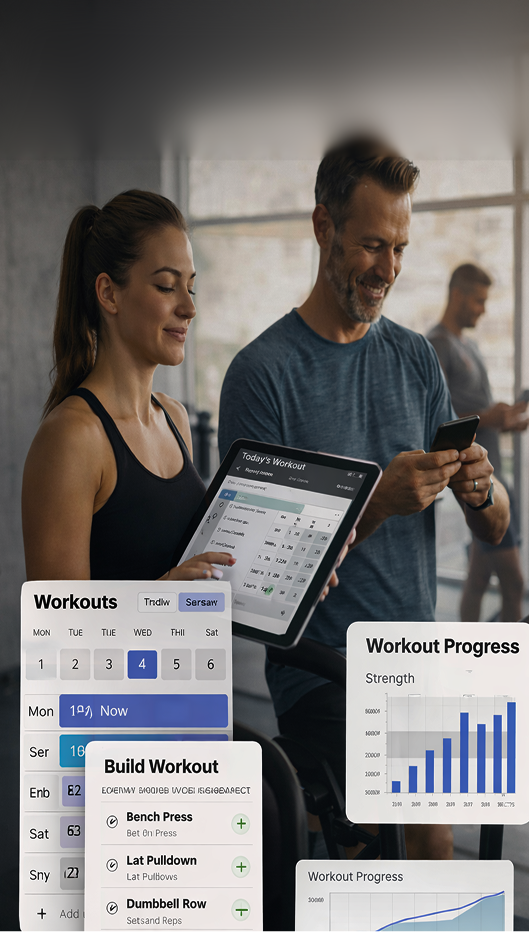
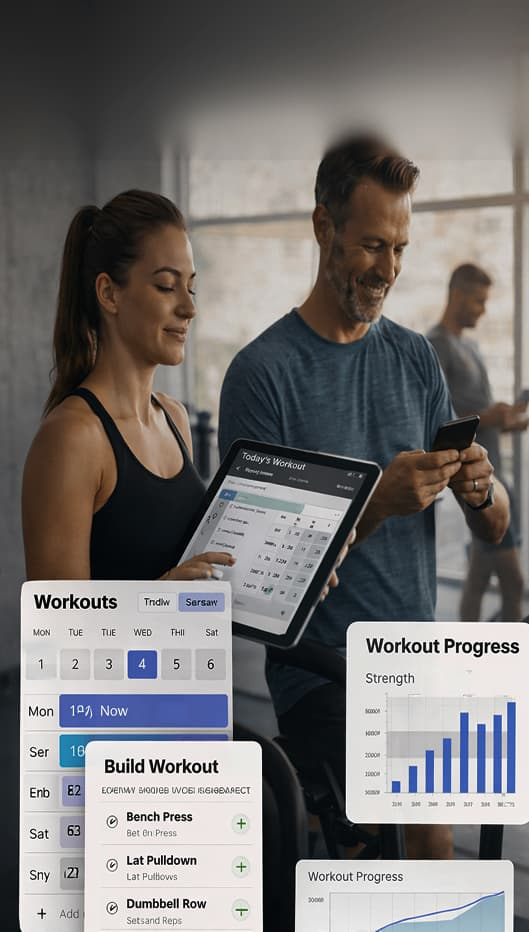
add serve file to run locally and compressed images and set fetchpriotiy high

diff --git a/index.html b/index.html
@@ -4,10 +4,14 @@
     <meta charset="UTF-8">
     <meta name="viewport" content="width=device-width, initial-scale=1.0">
     <title>Gym Planner</title>
+    <meta name="description" content="Plan and track your gym workouts with GymPlanner. Build personalised sessions, schedule your week, and book personal trainers.">
     <!-- CSS Styles File-->
     <link rel="stylesheet" href="css/style.css">
     <!-- CSS Grid File-->
     <link rel="stylesheet" href="css/grid.css">
+    <!-- Preload only the correct hero image per viewport -->
+    <link rel="preload" as="image" href="images/hero_image_mobile.png" media="(max-width: 768px)" fetchpriority="high">
+    <link rel="preload" as="image" href="images/hero_image_container.png" media="(min-width: 769px)" fetchpriority="high">
 </head>
 <body>
     <!-- ------- Header ------- -->
@@ -16,7 +20,7 @@
         <nav class="site-nav" aria-label="Main navigation">
             <!-- Logo -->
             <a href="#home" class="site-nav__logo" aria-label="GymPlanner home">
-                <img class="logo" src="../images/logo.png" alt="GymPlanner logo">
+                <img class="logo" src="images/logo.png" alt="GymPlanner logo" width="95" height="62">
             </a>
             <!-- Nav Links -->
             <ul class="site-nav__links">
@@ -41,10 +45,11 @@
             </ul>
         </nav>
     </header>
-    <!-- ------- Hero ------- -->
     <section class="hero" id="home" aria-label="Hero">
-        <img class="hero__img hero__img--desktop" src="images/hero_image_container.png" alt="GymPlanner workout planning preview">
-        <img class="hero__img hero__img--mobile"  src="images/hero_image_mobile.png"   alt="GymPlanner workout planning preview">
+        <picture>
+            <source srcset="images/hero_image_mobile.png" media="(max-width: 768px)">
+            <img class="hero__img" src="images/hero_image_container.png" alt="GymPlanner workout planning preview" width="1905" height="1092" fetchpriority="high" decoding="async">
+        </picture>
         <div class="hero__content">
             <h1 class="hero__title">Plan smarter. Train harder.</h1>
             <p class="hero__sub">Build and follow personalised workouts,<br>track your progress, and see results.</p>
@@ -55,7 +60,7 @@
     <section class="about" id="about" aria-label="About Us">
         <!-- Row 1: mini bars top left + text right -->
         <div class="about__row about__row--1">
-            <img class="about__deco about__deco--mini-bars" src="images/mini_bars.png" alt="" aria-hidden="true" loading="lazy">
+            <img class="about__deco about__deco--mini-bars" src="images/mini_bars.png" alt="" aria-hidden="true" width="95" height="95" loading="lazy">
             <div class="about__text-block">
                 <p>We created this gym journal to make fitness tracking simple, flexible, and effective.</p>
                 <p>Training isn't always perfect. Plans change, schedules shift, and goals evolve.</p>
@@ -67,7 +72,7 @@
                 That's why our platform is built to let you plan workouts, edit them as needed,
                 and delete what no longer serves you…
             </p>
-            <img class="about__deco about__deco--top-bar" src="images/top_bar.png" alt="" aria-hidden="true" loading="lazy">
+            <img class="about__deco about__deco--top-bar" src="images/top_bar.png" alt="" aria-hidden="true" width="95" height="40" loading="lazy">
         </div>
         <!-- ALL IN ONE PLACE Headline -->
         <div class="about__headline-row">
@@ -116,12 +121,12 @@
     <!-- ------- Footer ------- -->
     <footer class="site-footer" id="footer">
     <!-- SVG -->
-    <img src="images/footer_cross-section_box.svg" alt="" aria-hidden="true" class="footer-cut"/>
+    <img src="images/footer_cross-section_box.svg" alt="" aria-hidden="true" class="footer-cut" loading="lazy"/>
     <!-- Logo -->
     <div class="footer-inner">
         <div class="footer-top">
         <a href="#home" class="site-footer__logo" aria-label="Back to top">
-            <img src="images/logo.png" alt="GymPlanner logo">
+            <img src="images/logo.png" alt="GymPlanner logo" width="95" height="62" loading="lazy">
         </a>
         <!-- Facebook Socials -->
         <div class="footer-social" aria-label="Social media">

diff --git a/js/about.js b/js/about.js
@@ -4,24 +4,33 @@ About Scroll
 ----------------- 
 */
 
-// lazy-load for about section rows
-document.addEventListener('DOMContentLoaded', () => {
-    const aboutEls = document.querySelectorAll(
-        '.about__row, .about__headline-row, .about__closing'
-    );
-    if (!aboutEls.length) return;
-    const observer = new IntersectionObserver(
-        (entries) => {
-            entries.forEach((entry) => {
-                if (entry.isIntersecting) {
-                    entry.target.classList.add('is-visible');
-                    observer.unobserve(entry.target); /* only loads once */
-                }
-            });
-        },
-        {
-            threshold: 0.15, /* trigger when 15% of element is visible */
+/* lazy-load for about section rows */
+(function () {
+    'use strict';
+    if (!document.querySelector('.about')) return;
+    document.addEventListener('DOMContentLoaded', function () {
+        var aboutEls = document.querySelectorAll(
+            '.about__row, .about__headline-row, .about__closing'
+        );
+        if (!aboutEls.length) return;
+        /* fallback for browsers without IntersectionObserver */
+        if (!('IntersectionObserver' in window)) {
+            aboutEls.forEach(function (el) { el.classList.add('is-visible'); });
+            return;
         }
-    );
-    aboutEls.forEach((el) => observer.observe(el));
-});
+        var observer = new IntersectionObserver(
+            function (entries) {
+                entries.forEach(function (entry) {
+                    if (entry.isIntersecting) {
+                        entry.target.classList.add('is-visible');
+                        observer.unobserve(entry.target); /* only loads once */
+                    }
+                });
+            },
+            {
+                threshold: 0.15, /* trigger when 15% of element is visible */
+            }
+        );
+        aboutEls.forEach(function (el) { observer.observe(el); });
+    });
+})();

diff --git a/css/style.css b/css/style.css
@@ -90,8 +90,6 @@ Hero (ai generated)
 */
 .hero { position: relative; width: 100%; height: calc(100vh - var(--nav-h)); margin-top: var(--nav-h); overflow: hidden; }
 .hero__img { display: block; width: 100%; height: 100%; object-fit: cover; object-position: center; }
-.hero__img--desktop { display: block; }
-.hero__img--mobile  { display: none; }
 .hero__content { position: absolute; inset: 0; display: flex; flex-direction: column; align-items: center; padding-top: 6%; text-align: center; gap: 0.75rem; }
 .hero__title { font-family: var(--font-body); font-size: clamp(1.6rem,3.5vw,2.8rem); font-weight: 800; color: #fff; line-height: 1.15; text-shadow: 0 2px 12px rgba(0,0,0,0.35); }
 .hero__sub { font-size: clamp(0.85rem,1.5vw,1.05rem); font-weight: 400; color: rgba(255,255,255,0.82); line-height: 1.55; text-shadow: 0 1px 8px rgba(0,0,0,0.3); }
@@ -171,8 +169,7 @@ Responsive
   .site-nav__links { display: none; }
   .btn-hamburger { display: inline-flex; }
   .hero { height: calc(100svh - var(--nav-h)); }
-  .hero__img--desktop { display: none; }
-  .hero__img--mobile  { display: block; object-position: center top; }
+  .hero__img { object-position: center top; }
   .hero__content { padding-top: 8%; }
   .hero__title { font-size: clamp(1.4rem,6vw,2rem); }
   .hero__sub { font-size: 0.9rem; }

diff --git a/js/hamburger.js b/js/hamburger.js
@@ -10,12 +10,14 @@ Navbar Mobile Hamburger Toggle + Smooth Scroll
   const hamburger  = document.getElementById('hamburger');
   const mobileMenu = document.getElementById('mobileMenu');
 
+  /* safe on pages without a nav */
+  if (!hamburger || !mobileMenu) return;
+
   /* toggle open / closed */
   hamburger.addEventListener('click', function () {
     const isOpen = mobileMenu.classList.toggle('is-open');
     /* swap icon — hamburger when closed, X when open */
     hamburger.innerHTML = isOpen ? '&#10005;' : '&#9776;';
-    /* update aria-expanded */
     hamburger.setAttribute('aria-expanded', String(isOpen));
     hamburger.setAttribute('aria-label', isOpen ? 'Close navigation menu' : 'Open navigation menu');
     /* prevent scrolling while menu is open */
@@ -29,8 +31,12 @@ Navbar Mobile Hamburger Toggle + Smooth Scroll
   });
 
   /* disappear when viewport is resized back to desktop */
+  var resizeTimer;
   window.addEventListener('resize', function () {
-    if (window.innerWidth > 768) closeMenu();
+    clearTimeout(resizeTimer);
+    resizeTimer = setTimeout(function () {
+      if (window.innerWidth > 768) closeMenu();
+    }, 100);
   });
 
   /* closes menu and resets state */

diff --git a/js/planner.js b/js/planner.js
@@ -12,7 +12,7 @@ var MONTHS = ['January','February','March','April','May','June','July','August',
 
 /* 
 ----------------- 
-Storage
+Storage (ai generated)
 ----------------- 
 */
 /* save all state to localStorage */
